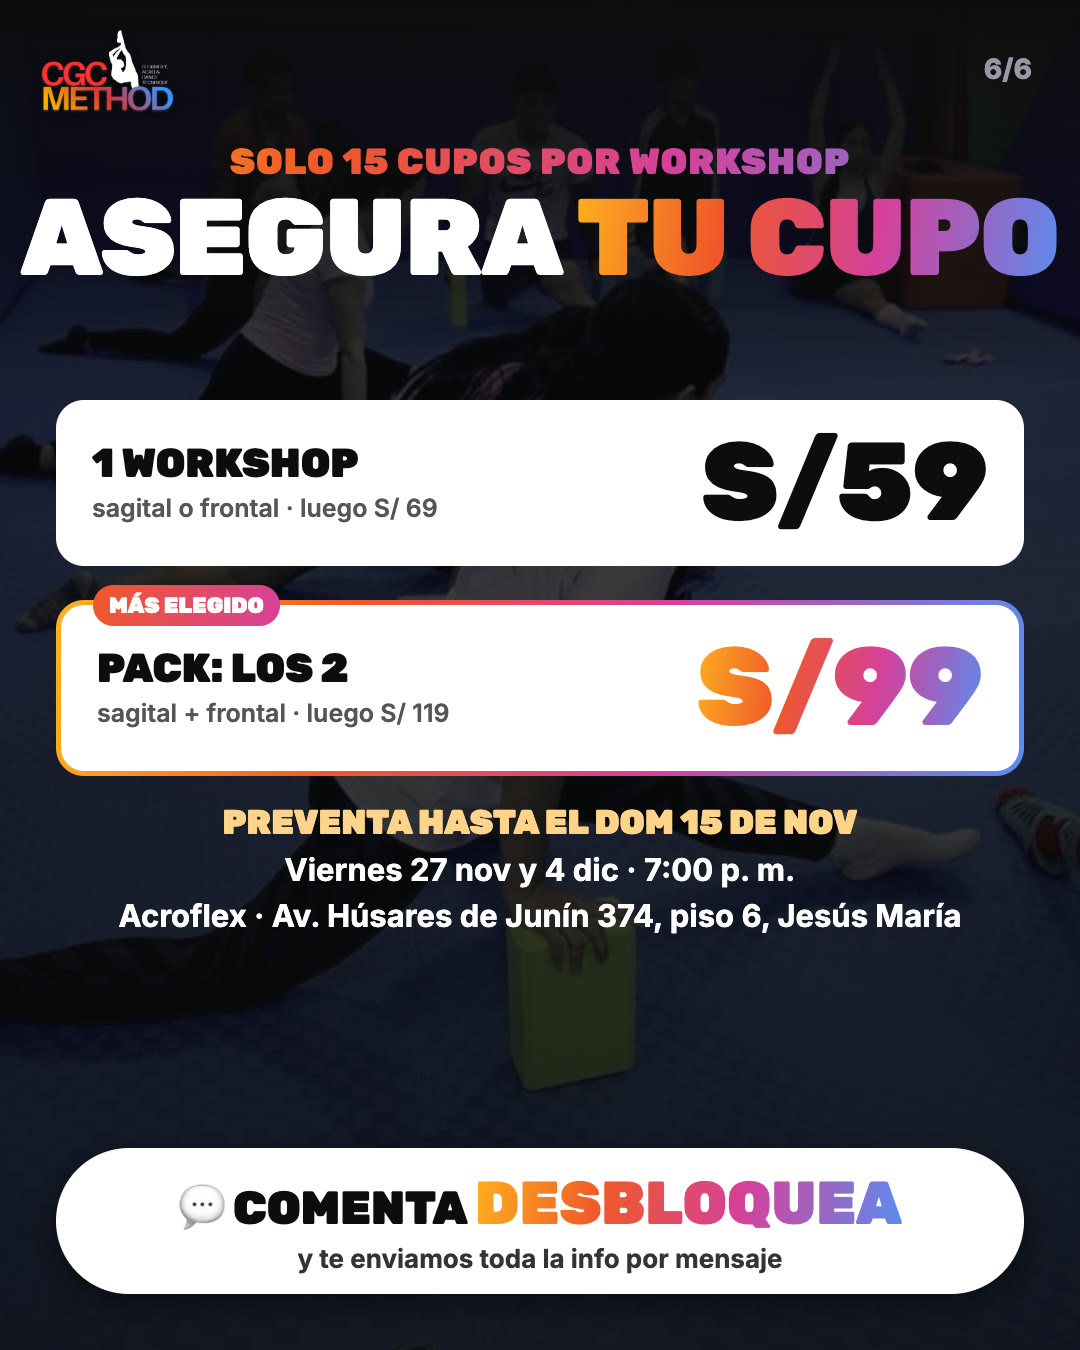
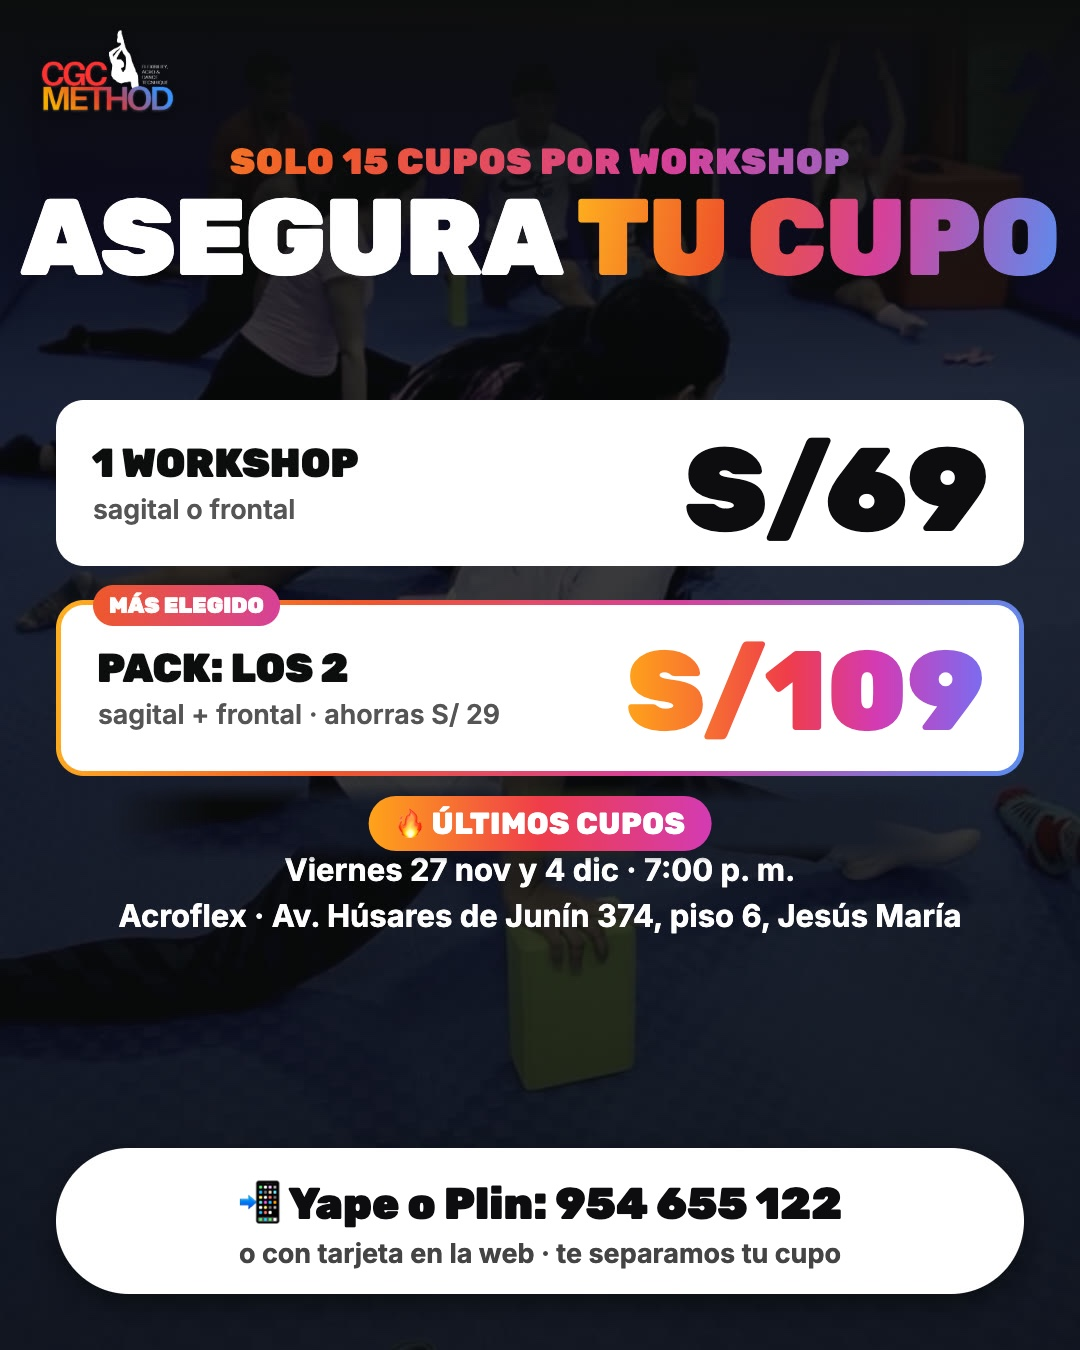
Workshop: precios después de la preventa (S/ 69 · pack S/ 109) en la lámina y en el manual

diff --git a/index.html b/index.html
@@ -1554,12 +1554,12 @@ function startWorkshop() {
   const msgs = [
     { label: '1 · Pregunta por los workshops o comentó DESBLOQUEA',
       note: 'Manda esto apenas escriba, con el link. Puede pagar sola en la página con tarjeta. Si ya contó su objetivo, empieza respondiendo eso en una línea.',
-      txt: `¡Hola! 💛 Estos son los 2 últimos workshops presenciales del año con Camila Garay:\n\n🔥 DESBLOQUEA TU SPLIT\n📅 Viernes 27 de noviembre → split sagital (una pierna adelante y otra atrás)\n📅 Viernes 4 de diciembre → split frontal (piernas abiertas a los costados)\n🕖 7:00 a 8:30 p. m.\n📍 Acroflex · Av. Húsares de Junín 374, piso 6, Jesús María\n\nEs una clase 100% práctica: haces todos los ejercicios mientras Camila te explica qué músculos te frenan, los errores más comunes y cómo corregirlos. Incluye certificado virtual de participación 🎓\n\n💰 Preventa hasta el domingo 15 de noviembre:\n• 1 workshop: S/ 59 (luego S/ 69)\n• Pack los 2: S/ 99 (luego S/ 119)\n\n⚠ Solo 15 cupos por fecha.\n\nReserva aquí 👉 ${LINK}\n\n¿Te interesa uno o los dos?` },
+      txt: `¡Hola! 💛 Estos son los 2 últimos workshops presenciales del año con Camila Garay:\n\n🔥 DESBLOQUEA TU SPLIT\n📅 Viernes 27 de noviembre → split sagital (una pierna adelante y otra atrás)\n📅 Viernes 4 de diciembre → split frontal (piernas abiertas a los costados)\n🕖 7:00 a 8:30 p. m.\n📍 Acroflex · Av. Húsares de Junín 374, piso 6, Jesús María\n\nEs una clase 100% práctica: haces todos los ejercicios mientras Camila te explica qué músculos te frenan, los errores más comunes y cómo corregirlos. Incluye certificado virtual de participación 🎓\n\n💰 Preventa hasta el domingo 15 de noviembre:\n• 1 workshop: S/ 59 (luego S/ 69)\n• Pack los 2: S/ 99 (luego S/ 109)\n\n⚠ Solo 15 cupos por fecha.\n\nReserva aquí 👉 ${LINK}\n\n¿Te interesa uno o los dos?` },
     { label: '2 · Si duda entre uno o los dos',
       note: 'Recomienda el pack: es lo que más conviene y llena las dos fechas. Si solo puede una fecha, que elija la del split que más quiere.',
       txt: `Te recomiendo el pack 💛 Cada split usa músculos distintos, así que con los 2 trabajas todo lo que necesitas para abrir las piernas en las dos direcciones. Además ahorras: los 2 te salen S/ 99 en vez de S/ 118.\n\n¿Te separo los dos?` },
     { label: '3 · Si quiere pagar con Yape, Plin o transferencia',
-      note: 'NO le pidas nombre ni correo: esos datos los pone ella en su ficha, que le llega sola cuando confirmas el pago (✅). Monto: S/ 59 uno o S/ 99 el pack hasta el dom 15-nov; desde el lunes 16-nov, S/ 69 y S/ 119.',
+      note: 'NO le pidas nombre ni correo: esos datos los pone ella en su ficha, que le llega sola cuando confirmas el pago (✅). Monto: S/ 59 uno o S/ 99 el pack hasta el dom 15-nov; desde el lunes 16-nov, S/ 69 y S/ 109.',
       txt: `¡Genial! 🎉 Para separar tu cupo:\n\n📲 Yape / Plin: 954 655 122\n🏦 Transferencia BCP (soles):\nCuenta: 19394356284075\nCCI: 00219319435628407511\nA nombre de Camila Rosario Garay Robles\n\nMonto: S/ [59 o 99]\n\nCuando pagues, mándame la captura por aquí 📸 y apenas confirmemos tu pago te llega tu ficha de inscripción 💛` },
     { label: '4 · Ya llenó su ficha y la inscribiste en el panel → avísale',
       note: 'Primero haz los pasos de "Pagó por Yape, Plin o transferencia" (más abajo). Recién después manda este mensaje.',
@@ -1578,7 +1578,7 @@ function startWorkshop() {
       txt: `¡Qué pena que no puedas venir! 💛 Lo bueno es que el método de Camila también lo trabajamos en las clases en vivo por Zoom, con corrección de técnica en el momento. ¿Quieres que te cuente cómo funcionan?` },
     { label: '9 · Seguimiento: último día de preventa (domingo 15-nov)',
       note: 'Solo a quien preguntó y no compró, y solo si su último mensaje fue hace 7 días o menos. Máximo unos 30 al día, en tandas de 10.',
-      txt: `¡Hoy es el último día de preventa de Desbloquea tu split, [nombre]! 🔥 Hasta las 11:59 p. m. el pack de los 2 workshops está en S/ 99 (desde mañana sube a S/ 119).\n\nReserva aquí 👉 ${LINK}` },
+      txt: `¡Hoy es el último día de preventa de Desbloquea tu split, [nombre]! 🔥 Hasta las 11:59 p. m. el pack de los 2 workshops está en S/ 99 (desde mañana sube a S/ 109).\n\nReserva aquí 👉 ${LINK}` },
     { label: '10 · Si ya no quedan cupos',
       note: 'La página dice cuántos cupos quedan. Si una fecha se llena, ofrece la otra o avísale a Cami.',
       txt: `¡Uy, el workshop del [fecha] ya se llenó! 💛 Todavía quedan cupos para el [otra fecha]. ¿Te separo ese?` },
@@ -1603,7 +1603,7 @@ function startWorkshop() {
         ${row('Hora', '7:00 a 8:30 p. m.')}
         ${row('Lugar', 'Acroflex · Av. Húsares de Junín 374, piso 6, Jesús María')}
         ${row('Preventa', 'Hasta el dom 15 nov, 11:59 p. m.<br>1 workshop S/ 59 · pack los 2 S/ 99')}
-        ${row('Después', 'S/ 69 · pack S/ 119 (la web cambia sola)')}
+        ${row('Después', 'S/ 69 · pack S/ 109 (desde el 16-nov; la web cambia sola)')}
         ${row('Cupos', '15 por fecha (el pack ocupa uno en cada fecha)')}
         ${row('Incluye', 'Certificado virtual de participación')}
         ${row('Llevar', '2 bloques de yoga, liga de números, ropa cómoda, agua')}

diff --git a/manual-ventas-whatsapp.html b/manual-ventas-whatsapp.html
@@ -1554,12 +1554,12 @@ function startWorkshop() {
   const msgs = [
     { label: '1 · Pregunta por los workshops o comentó DESBLOQUEA',
       note: 'Manda esto apenas escriba, con el link. Puede pagar sola en la página con tarjeta. Si ya contó su objetivo, empieza respondiendo eso en una línea.',
-      txt: `¡Hola! 💛 Estos son los 2 últimos workshops presenciales del año con Camila Garay:\n\n🔥 DESBLOQUEA TU SPLIT\n📅 Viernes 27 de noviembre → split sagital (una pierna adelante y otra atrás)\n📅 Viernes 4 de diciembre → split frontal (piernas abiertas a los costados)\n🕖 7:00 a 8:30 p. m.\n📍 Acroflex · Av. Húsares de Junín 374, piso 6, Jesús María\n\nEs una clase 100% práctica: haces todos los ejercicios mientras Camila te explica qué músculos te frenan, los errores más comunes y cómo corregirlos. Incluye certificado virtual de participación 🎓\n\n💰 Preventa hasta el domingo 15 de noviembre:\n• 1 workshop: S/ 59 (luego S/ 69)\n• Pack los 2: S/ 99 (luego S/ 119)\n\n⚠ Solo 15 cupos por fecha.\n\nReserva aquí 👉 ${LINK}\n\n¿Te interesa uno o los dos?` },
+      txt: `¡Hola! 💛 Estos son los 2 últimos workshops presenciales del año con Camila Garay:\n\n🔥 DESBLOQUEA TU SPLIT\n📅 Viernes 27 de noviembre → split sagital (una pierna adelante y otra atrás)\n📅 Viernes 4 de diciembre → split frontal (piernas abiertas a los costados)\n🕖 7:00 a 8:30 p. m.\n📍 Acroflex · Av. Húsares de Junín 374, piso 6, Jesús María\n\nEs una clase 100% práctica: haces todos los ejercicios mientras Camila te explica qué músculos te frenan, los errores más comunes y cómo corregirlos. Incluye certificado virtual de participación 🎓\n\n💰 Preventa hasta el domingo 15 de noviembre:\n• 1 workshop: S/ 59 (luego S/ 69)\n• Pack los 2: S/ 99 (luego S/ 109)\n\n⚠ Solo 15 cupos por fecha.\n\nReserva aquí 👉 ${LINK}\n\n¿Te interesa uno o los dos?` },
     { label: '2 · Si duda entre uno o los dos',
       note: 'Recomienda el pack: es lo que más conviene y llena las dos fechas. Si solo puede una fecha, que elija la del split que más quiere.',
       txt: `Te recomiendo el pack 💛 Cada split usa músculos distintos, así que con los 2 trabajas todo lo que necesitas para abrir las piernas en las dos direcciones. Además ahorras: los 2 te salen S/ 99 en vez de S/ 118.\n\n¿Te separo los dos?` },
     { label: '3 · Si quiere pagar con Yape, Plin o transferencia',
-      note: 'NO le pidas nombre ni correo: esos datos los pone ella en su ficha, que le llega sola cuando confirmas el pago (✅). Monto: S/ 59 uno o S/ 99 el pack hasta el dom 15-nov; desde el lunes 16-nov, S/ 69 y S/ 119.',
+      note: 'NO le pidas nombre ni correo: esos datos los pone ella en su ficha, que le llega sola cuando confirmas el pago (✅). Monto: S/ 59 uno o S/ 99 el pack hasta el dom 15-nov; desde el lunes 16-nov, S/ 69 y S/ 109.',
       txt: `¡Genial! 🎉 Para separar tu cupo:\n\n📲 Yape / Plin: 954 655 122\n🏦 Transferencia BCP (soles):\nCuenta: 19394356284075\nCCI: 00219319435628407511\nA nombre de Camila Rosario Garay Robles\n\nMonto: S/ [59 o 99]\n\nCuando pagues, mándame la captura por aquí 📸 y apenas confirmemos tu pago te llega tu ficha de inscripción 💛` },
     { label: '4 · Ya llenó su ficha y la inscribiste en el panel → avísale',
       note: 'Primero haz los pasos de "Pagó por Yape, Plin o transferencia" (más abajo). Recién después manda este mensaje.',
@@ -1578,7 +1578,7 @@ function startWorkshop() {
       txt: `¡Qué pena que no puedas venir! 💛 Lo bueno es que el método de Camila también lo trabajamos en las clases en vivo por Zoom, con corrección de técnica en el momento. ¿Quieres que te cuente cómo funcionan?` },
     { label: '9 · Seguimiento: último día de preventa (domingo 15-nov)',
       note: 'Solo a quien preguntó y no compró, y solo si su último mensaje fue hace 7 días o menos. Máximo unos 30 al día, en tandas de 10.',
-      txt: `¡Hoy es el último día de preventa de Desbloquea tu split, [nombre]! 🔥 Hasta las 11:59 p. m. el pack de los 2 workshops está en S/ 99 (desde mañana sube a S/ 119).\n\nReserva aquí 👉 ${LINK}` },
+      txt: `¡Hoy es el último día de preventa de Desbloquea tu split, [nombre]! 🔥 Hasta las 11:59 p. m. el pack de los 2 workshops está en S/ 99 (desde mañana sube a S/ 109).\n\nReserva aquí 👉 ${LINK}` },
     { label: '10 · Si ya no quedan cupos',
       note: 'La página dice cuántos cupos quedan. Si una fecha se llena, ofrece la otra o avísale a Cami.',
       txt: `¡Uy, el workshop del [fecha] ya se llenó! 💛 Todavía quedan cupos para el [otra fecha]. ¿Te separo ese?` },
@@ -1603,7 +1603,7 @@ function startWorkshop() {
         ${row('Hora', '7:00 a 8:30 p. m.')}
         ${row('Lugar', 'Acroflex · Av. Húsares de Junín 374, piso 6, Jesús María')}
         ${row('Preventa', 'Hasta el dom 15 nov, 11:59 p. m.<br>1 workshop S/ 59 · pack los 2 S/ 99')}
-        ${row('Después', 'S/ 69 · pack S/ 119 (la web cambia sola)')}
+        ${row('Después', 'S/ 69 · pack S/ 109 (desde el 16-nov; la web cambia sola)')}
         ${row('Cupos', '15 por fecha (el pack ocupa uno en cada fecha)')}
         ${row('Incluye', 'Certificado virtual de participación')}
         ${row('Llevar', '2 bloques de yoga, liga de números, ropa cómoda, agua')}
